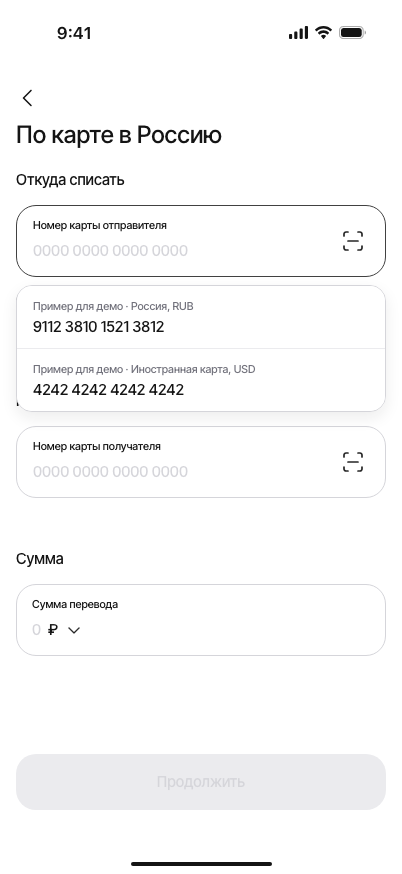
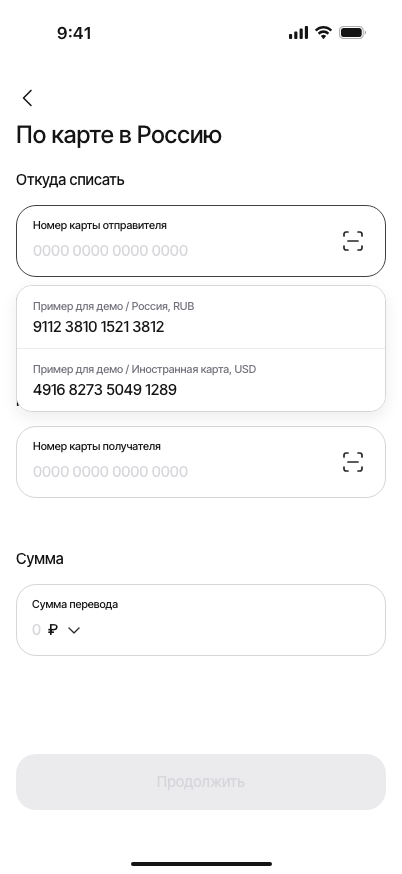
Use a varied number for the foreign demo card

Changed region(s): [[0.1194, 0.4016, 0.6269, 0.4634], [0.3284, 0.3398, 0.4776, 0.3707]]

diff --git a/src/authorized-transfer.js b/src/authorized-transfer.js
@@ -30,7 +30,7 @@ export function createAuthorizedTransfer({ cards, card, recipient, transferKind,
     const country = recipient.bankInfo?.country || recipient.subtitle?.match(/^(RU|UZ)\b/)?.[1];
     if (country) transferKind = country === 'RU' ? 'russia' : 'abroad';
   }
-  const foreignDemoNumber='4242424242424242';
+  const foreignDemoNumber='4916827350491289';
   const figmaDemoCards={foreign:foreignDemoNumber,sender:'9112381015213812',recipient:'2200789332541984'};
   const isFigmaDemoCard=number=>guest&&Object.values(figmaDemoCards).includes(number.replace(/\D/g,''));
   const validTransferCard=number=>validCard(number)||isFigmaDemoCard(number);

diff --git a/README.md b/README.md
@@ -150,4 +150,4 @@ Default / Active / Expanded синхронизированы с `140:2298` и `1
 
 При фокусе пустого номера отправителя или получателя гостевого перевода появляется необязательная подсказка «Пример для демо»: 9112 3810 1521 3812 / 2200 7893 3254 1984 (Figma 171:5848). Ручной ввод сохраняется. Эти точные демо-номера проходят отдельную проверку прототипа, без BIN-запроса; остальные номера проверяются как прежде. Проверка: `node tests/guest-demo-cards.mjs`.
 
-В подсказке отправителя также доступна иностранная демо-карта 4242 4242 4242 4242 со счётом USD. При выборе валюта суммы по умолчанию — USD; комиссия и итог списания, подтверждение и история операции сохраняют валюту счёта отправителя. Для рублёвой карты итог остаётся в RUB. Демо-тариф прежний: 1,5%, минимум эквивалент 50 ₽ по согласованным курсам. Баланс неизвестен. Проверка: `node tests/guest-foreign-card.mjs`.
+В подсказке отправителя также доступна иностранная демо-карта 4916 8273 5049 1289 со счётом USD. При выборе валюта суммы по умолчанию — USD; комиссия и итог списания, подтверждение и история операции сохраняют валюту счёта отправителя. Для рублёвой карты итог остаётся в RUB. Демо-тариф прежний: 1,5%, минимум эквивалент 50 ₽ по согласованным курсам. Баланс неизвестен. Проверка: `node tests/guest-foreign-card.mjs`.
